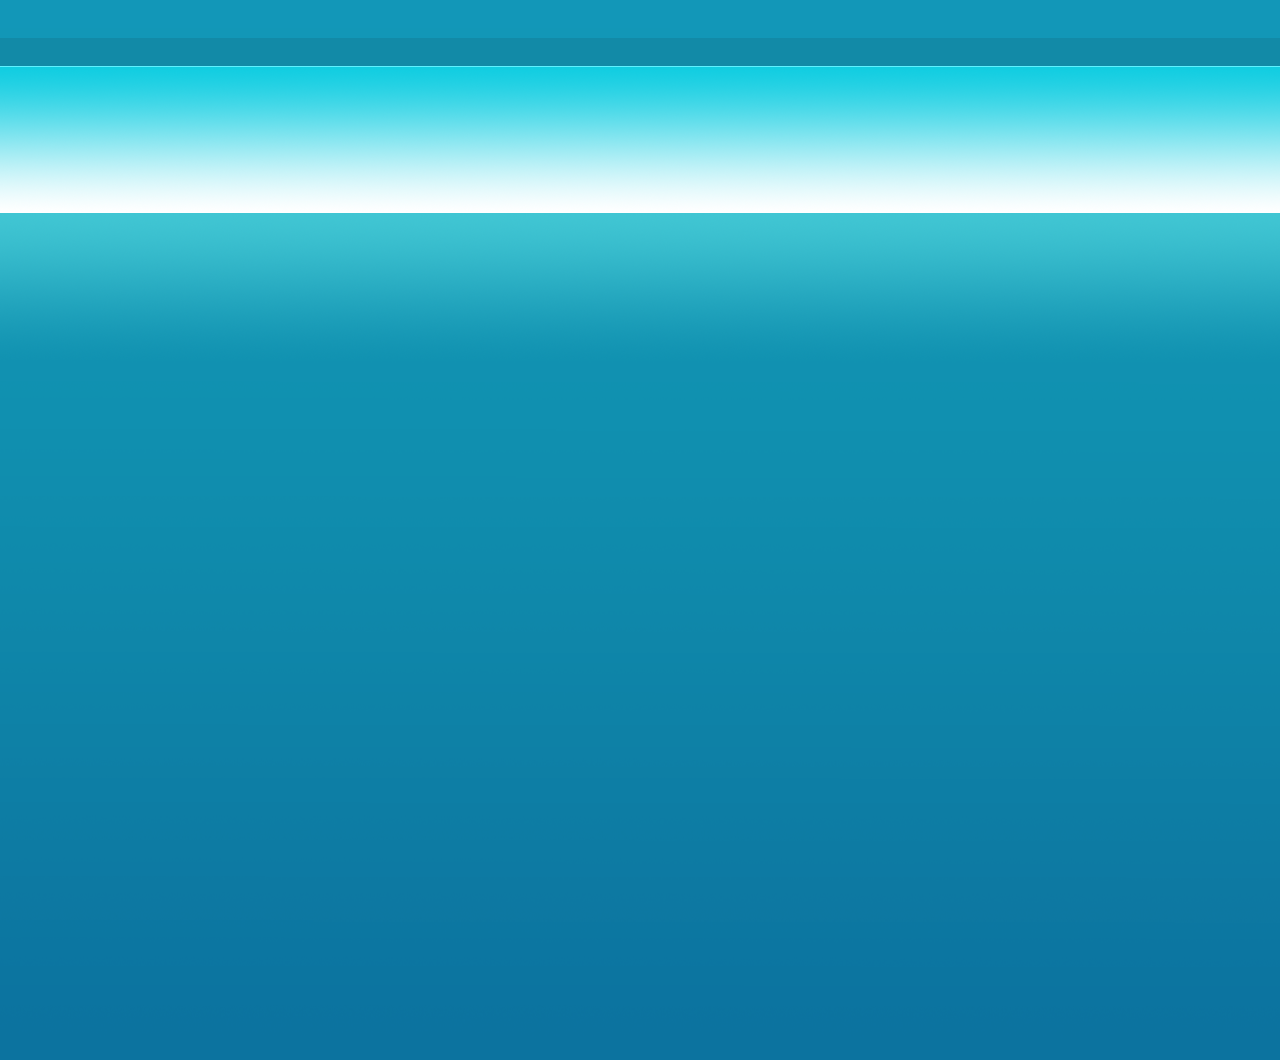
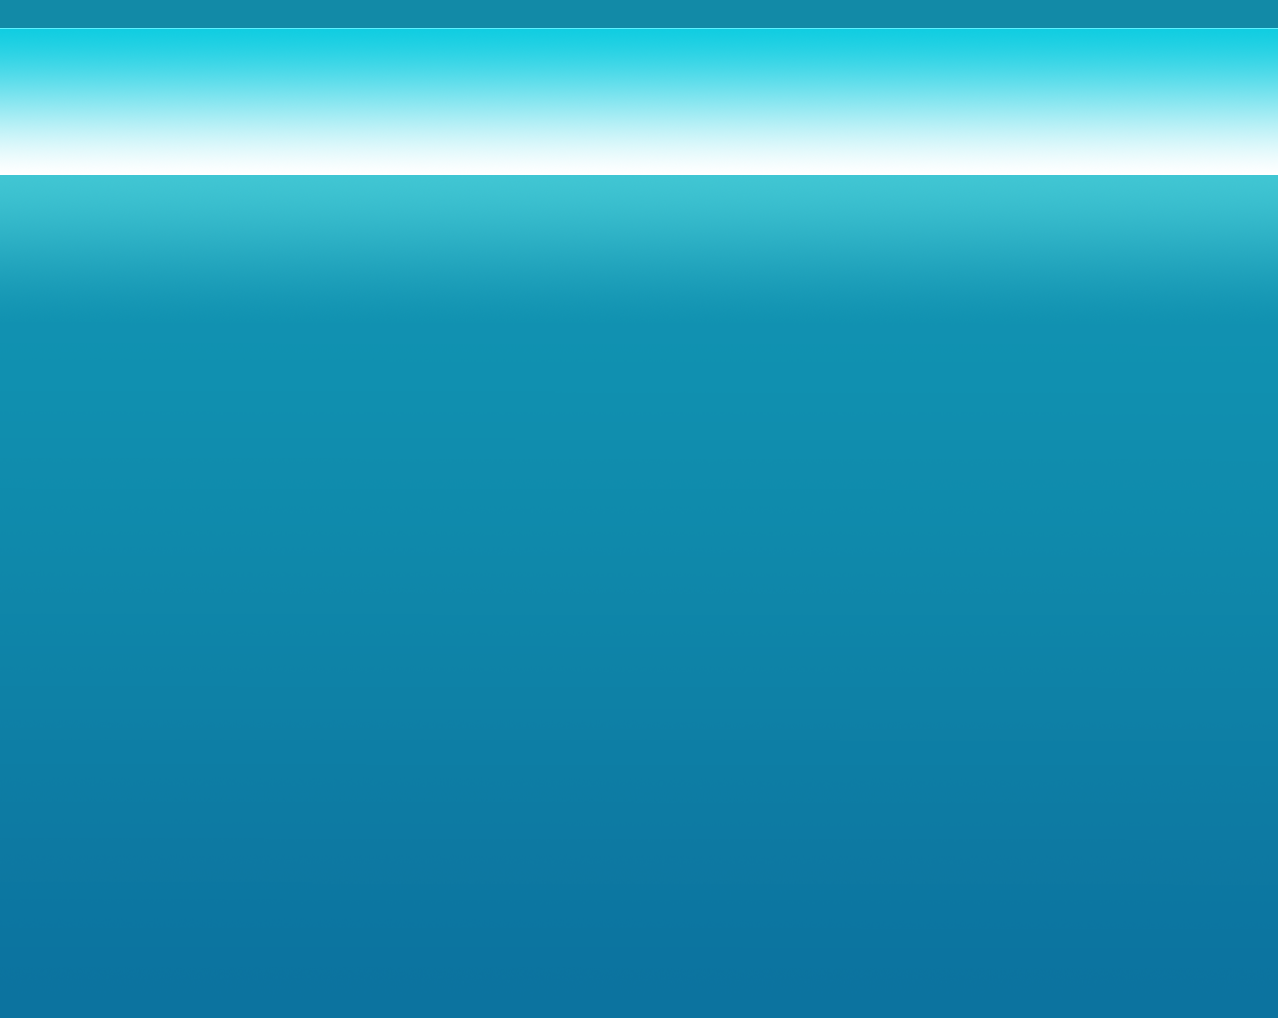
new files

Changed region(s): [[0.0, 0.0305, 1.0, 0.2132]]

diff --git a/index.html b/index.html
@@ -15,29 +15,29 @@
 				<p>+9-0123-456-890</p>
 				<p>info@asia-holidays.com</p>
 			</div>
-			<div class="countries">
+			<div class="countries">				
 				<div class="country">
-					<p class="flag"><img src="img/india.png" alt="india"></p>
+					<a href="" class="flag"><img src="img/india.png" alt="india"></a>
 					<p><a href="">Индия</a></p>
 				</div>
 				<div class="country">
-					<p class="flag"><img src="img/nepal.png" alt="nepal"></p>
+					<a href="" class="flag"><img src="img/nepal.png" alt="nepal"></a>
 					<p><a href="">Непал</a></p>	
 				</div>
 				<div class="country">
-					<p class="flag"><img src="img/tibet.png" alt=""></p>
+					<a href="" class="flag"><img src="img/tibet.png" alt="tibet"></a>
 					<p><a href="">Тибет</a></p>
 				</div>
 				<div class="country">
-					<p class="flag"><img src="img/butan.png" alt=""></p>
+					<a href="" class="flag"><img src="img/butan.png" alt="butan"></a>
 					<p><a href="">Бутан</a></p>
 				</div>
 				<div class="country">
-					<p class="flag"><img src="img/sri-lanka.png" alt=""></p>
+					<a href="" class="flag"><img src="img/sri-lanka.png" alt="sri-lanka"></a>
 					<p><a href="">Шри-Ланка</a></p>
 				</div>
 				<div class="country">
-					<p class="flag"><img src="img/maldives.png" alt=""></p>
+					<a href="" class="flag"><img src="img/maldives.png" alt="maldives"></a>
 					<p><a href="">Мальдивы</a></p>
 				</div>
 			</div>
@@ -57,8 +57,25 @@
 							<li><a href="">Путешествие 4</a></li>
 							<li><a href="">Путешествие 5</a></li>
 						</ul>
-					<li><a href="">Услуги &#9660;</a></li>
-					<li><a href="">Партнерам &#9660;</a></li>
+					</li>
+					<li><a href="">Услуги &#9660;</a>
+						<ul>
+							<li><a href="">Услуга 1</a> </li>
+							<li><a href="">Услуга 2</a></li>
+							<li><a href="">Услуга 3</a></li>
+							<li><a href="">Услуга 4</a></li>
+							<li><a href="">Услуга 5</a></li>
+						</ul>
+						</li>
+					<li><a href="">Партнерам &#9660;</a>
+						<ul>
+							<li><a href="">Информация 1</a></li>
+							<li><a href="">Информация 2</a></li>
+							<li><a href="">Информация 3</a></li>
+							<li><a href="">Информация 4</a></li>
+							<li><a href="">Информация 5</a></li>
+						</ul>
+					</li>
 					<li><a href="">Отзывы клиентов</a></li>
 					<li><a href="">О нас</a></li>
 					<li><a href="">Контакты</a></li>
@@ -73,7 +90,7 @@
 			<div class="box2"></div>
 			<div class="box3">
 				<h1>Новости</h1>
-				<p>Lorem ipsum dolor sit amet Lorem ipsum dolor sit amet Lorem ipsum dolor sit amet Lorem ipsum dolor sit amet Lorem ipsum dolor sit amet Lorem ipsum dolor sit amet Lorem ipsum dolor sit amet Lorem ipsum dolor sit amet Lorem ipsum dolor sit amet Lorem ipsum dolor sit amet Lorem ipsum dolor sit amet Lorem ipsum dolor sit amet Lorem ipsum dolor sit amet Lorem ipsum dolor sit amet Lorem ipsum dolor sit amet Lorem ipsum dolor sit amet Lorem ipsum dolor sit amet Lorem ipsum dolor sit amet Lorem ipsum dolor sit amet Lorem ipsum dolor sit amet Lorem ipsum dolor sit amet Lorem ipsum dolor sit amet Lorem ipsum dolor sit amet Lorem ipsum dolor sit amet Lorem ipsum dolor sit amet Lorem ipsum dolor sit amet Lorem ipsum dolor sit amet Lorem ipsum dolor sit amet Lorem ipsum dolor sit amet Lorem ipsum dolor sit amet</p>
+				<p>Lorem ipsum dolor sit amet Lorem ipsum dolor sit amet Lorem ipsum dolor sit amet Lorem ipsum dolor sit amet Lorem ipsum dolor sit amet Lorem ipsum dolor sit amet Lorem ipsum dolor sit amet Lorem ipsum dolor sit amet Lorem ipsum dolor sit amet Lorem ipsum dolor sit amet Lorem ipsum dolor sit amet Lorem ipsum dolor sit amet Lorem ipsum dolor sit amet Lorem ipsum dolor sit amet Lorem ipsum dolor sit amet Lorem ipsum dolor sit amet Lorem ipsum dolor sit amet Lorem ipsum dolor sit amet  Lorem ipsum dolor sit amet Lorem ipsum dolor sit amet </p>
 			</div>
 		</div>
 	</div>

diff --git a/css/hw4.css b/css/hw4.css
@@ -7,24 +7,24 @@ body{
 }
 .main{
 	margin: 0 auto;
-	margin-top: 30px;
 	margin-bottom: 5px;
 	padding: 0;
 	width: 1000px;
-	height: 990px;
+	height: 965px;
 	background-color: white;
 	box-shadow: 0px 2px 8px 0px rgba(0, 0, 0, 1);
 	border-bottom: 2px solid black;
 }
 .header{
-	padding: 10px 30px 0px 30px;
-	height: 20%;
+	padding: 0px 30px 0px 30px;
+	height: 175px;
 }
 .logo{
   position: relative;
   width: 283px;
-  height: 164px;
+  height: 165px;
   float: left;
+  margin-top: 10px;
 }
 .contacts{
 	float: right;
@@ -39,15 +39,16 @@ body{
 }
 .countries{
 	clear: right;
-	margin: 35px 0;
+	margin: 0;
+	margin-top: 35px;
 	text-align: center;	
 	float: right;
 	font-size: 0;
 }
 .country{
-display: inline-block;
-padding: 0 7.5px;
-font-size: 10px;
+	display: inline-block;
+	padding: 0 7.5px;
+	font-size: 10px;
 }
 .flag{
 	margin: 0;
@@ -71,18 +72,20 @@ font-size: 10px;
 	font-size: 0;
 }
 .menu{
-margin: 0;
-padding: 0;
-width: 100%;
-font-size: 0px;
+	margin: 0;
+	padding: 0;
+	width: 100%;
+	font-size: 0px;
 }
 ul{
 	margin: 0px;
 	padding: 0px;
 	list-style: none;
+	-webkit-box-shadow: 0px 0px 9px 3px rgba(0,0,0,0.75);
+	-moz-box-shadow: 0px 0px 9px 3px rgba(0,0,0,0.75);
+	box-shadow: 0px 0px 9px 3px rgba(0,0,0,0.75);
 }
 li{
-	text-decoration: none;
 	display: inline-block;
 	background-image: url(../img/menu.png);
 	background-repeat: repeat-x;
@@ -104,7 +107,7 @@ ul li ul{
 	display: none;
 	position: absolute;
 	margin: 0px;
-	width: 152px;
+	width: 142px;
 	background: #303030;
 	border: 1px solid #303030;
 	box-shadow: 0px 6px 10px 1px rgba(0,0,0,0.75);	
@@ -113,7 +116,6 @@ ul li ul li{
 	float: none;
 	display: block;
 	background: none;
-	border-bottom: 1px solid #303030;
 	color: white;
 	text-align: left;
 	margin-left: 10px;
@@ -125,7 +127,7 @@ ul li:hover ul {
 	width: 1000px;
 	background: url(../img/menu2.png) repeat-y;
 	float: left;
-	margin: 0px;
+	margin: 8px 0px 0px 0px;
 	padding: 0px;
 }
 h1{
@@ -133,7 +135,8 @@ h1{
 	text-align: center;
 }
 .box1, .box2, .box3{
-font-size: 14px;
+	font-size: 14px;
+	line-height: 23px;
 }
 .box1{
 	float: left;
@@ -154,7 +157,7 @@ font-size: 14px;
 }
 .footer{
 	text-align: center;
-	line-height: 30px;
+	line-height: 20px;
 	font-size: 12px;
 	color: white;
 }
